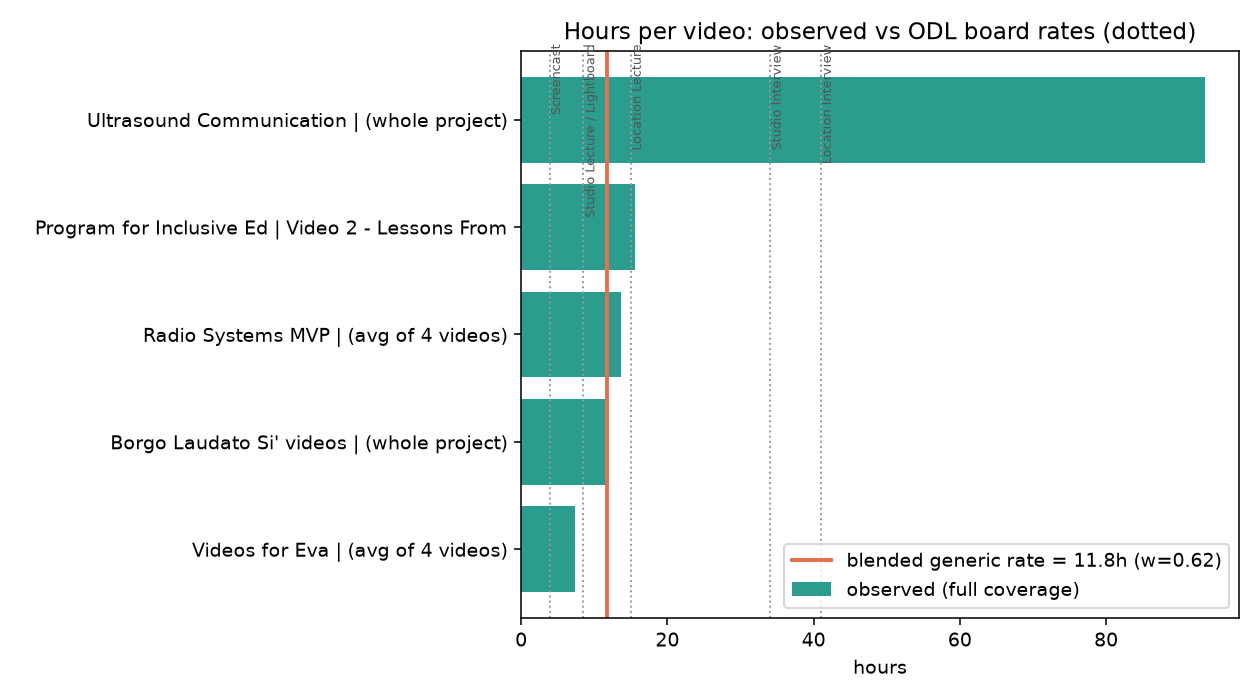
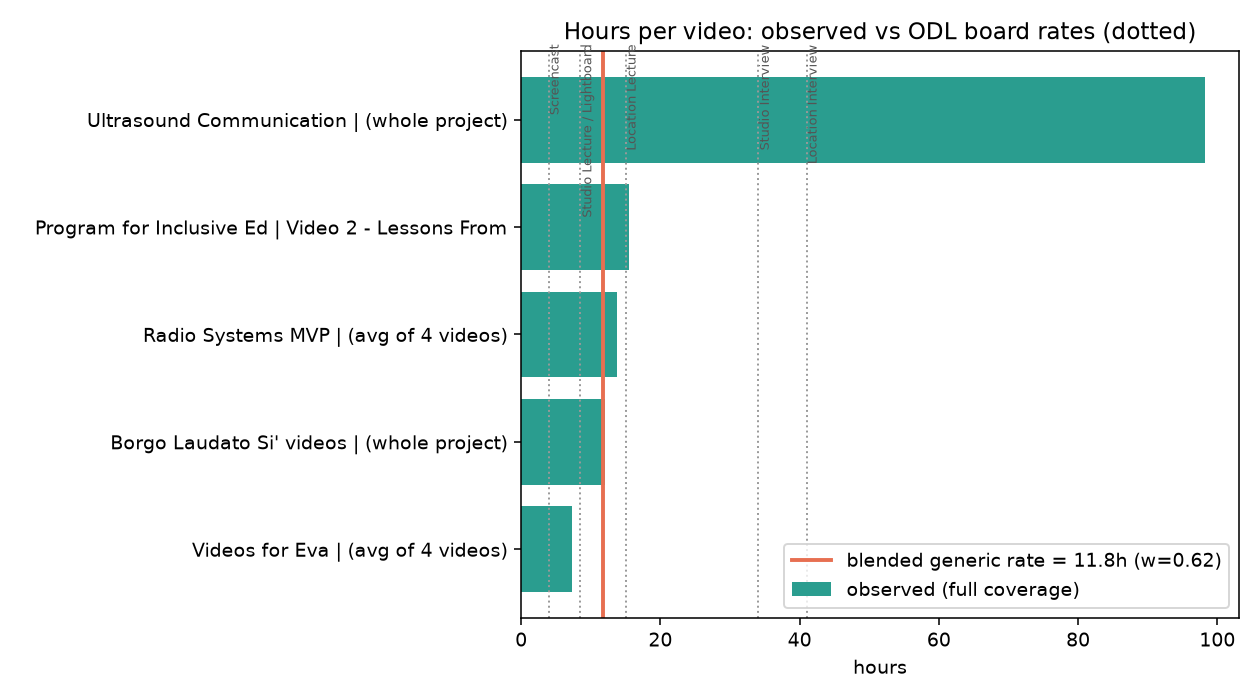
nightly refresh 2026-11-24

diff --git a/faculty_guide/canvas_upload/ODL_Faculty_Onboarding_Guide.html b/faculty_guide/canvas_upload/ODL_Faculty_Onboarding_Guide.html
@@ -335,7 +335,7 @@
   // === BEGIN CALIBRATION (machine-generated — do not edit by hand) ==========
   var CALIBRATION =
   {
-    "provenance": "data_all/time_entries.csv (3,409 entries, 3016.0h, 2024-07-10..2026-11-20, ODL staff time) | 22 full-coverage course-dev projects >=10h (derived/ground_truth.csv); production rates from the 18 of them with >=10h non-PM logging",
+    "provenance": "data_all/time_entries.csv (3,413 entries, 3022.5h, 2024-07-10..2026-11-24, ODL staff time) | 22 full-coverage course-dev projects >=10h (derived/ground_truth.csv); production rates from the 18 of them with >=10h non-PM logging",
     "generated_from": "data_all/derived/calibration.json -- run inject_calibration.py to refresh",
     "archetypeEffort": {
       "course_redesign": {
@@ -361,7 +361,7 @@
         "values": [
           12.0,
           15.5,
-          93.5
+          98.2
         ],
         "p50": 15.5,
         "note": "n<4 -- raw values shown; interpolated quartiles withheld"
@@ -401,8 +401,8 @@
         "p25": 12.0,
         "p50": 13.7,
         "p75": 15.5,
-        "p80": 31.1,
-        "max": 93.5
+        "p80": 32.0,
+        "max": 98.2
       },
       "blendedGenericP50": 11.8,
       "shrinkageW": 0.62

diff --git a/faculty_guide/estimator.js b/faculty_guide/estimator.js
@@ -38,7 +38,7 @@
   // === BEGIN CALIBRATION (machine-generated — do not edit by hand) ==========
   var CALIBRATION =
   {
-    "provenance": "data_all/time_entries.csv (3,409 entries, 3016.0h, 2024-07-10..2026-11-20, ODL staff time) | 22 full-coverage course-dev projects >=10h (derived/ground_truth.csv); production rates from the 18 of them with >=10h non-PM logging",
+    "provenance": "data_all/time_entries.csv (3,413 entries, 3022.5h, 2024-07-10..2026-11-24, ODL staff time) | 22 full-coverage course-dev projects >=10h (derived/ground_truth.csv); production rates from the 18 of them with >=10h non-PM logging",
     "generated_from": "data_all/derived/calibration.json -- run inject_calibration.py to refresh",
     "archetypeEffort": {
       "course_redesign": {
@@ -64,7 +64,7 @@
         "values": [
           12.0,
           15.5,
-          93.5
+          98.2
         ],
         "p50": 15.5,
         "note": "n<4 -- raw values shown; interpolated quartiles withheld"
@@ -104,8 +104,8 @@
         "p25": 12.0,
         "p50": 13.7,
         "p75": 15.5,
-        "p80": 31.1,
-        "max": 93.5
+        "p80": 32.0,
+        "max": 98.2
       },
       "blendedGenericP50": 11.8,
       "shrinkageW": 0.62
